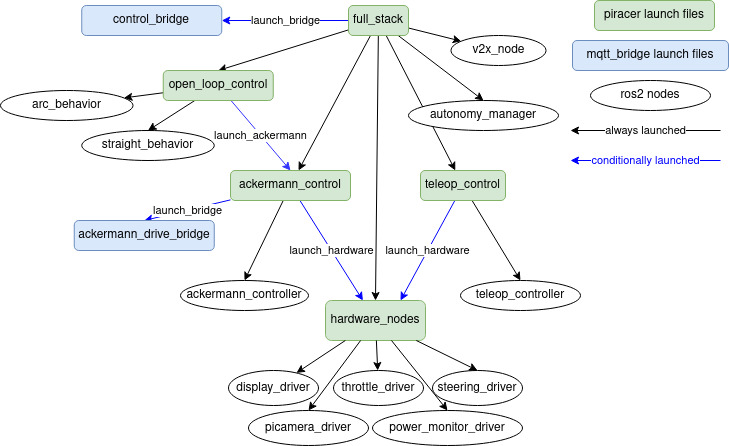
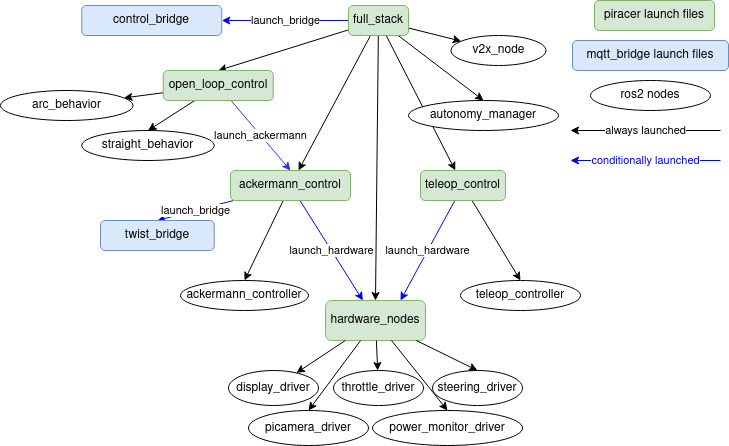
Replaced ackermann_drive references with twist references
ackermann_drive bridge still had residual references, replaced
with Twist to reflect package changes.

launch_hierarchy.jpg
README.md
* replaced ackermann_drive references with twist

Changed region(s): [[0.0905, 0.4372, 0.332, 0.583]]

diff --git a/README.md b/README.md
@@ -27,7 +27,7 @@ anything, but for practical purposes it should never need to be launched by itse
 ### Launch file options
 1. `full_stack.launch.py`: Launches all possible control modes at once, as well as the autonomy_manager.
 2. `open_loop_control.py`: Launches the open loop controllers and the ackermann_controller node.
-3. `ackermann_control.launch.py`: For use with the ackermann_drive mode of the mqtt_bridge package.
+3. `ackermann_control.launch.py`: For use with the twist mode of the mqtt_bridge package.
 4. `teleop_control.launch.py`: For use with a gamepad / controller.
 
 ### Command-line arguments
@@ -63,8 +63,8 @@ The following are the currently implemented control modes. Switching between the
 node, using ROS2 services. The commands from the `command` bridge to enable these modes are strings and are 
 case-insensitive.
 
-1. `direct`: `ackermann_drive` messages containing steering_angle and throttle commands are sent from the 
-   `ackermann_drive` bridge and parsed by the `ackermann_controller` node.
+1. `direct`: `twist` messages containing steering_angle and throttle commands are sent from the 
+   `twist` bridge and parsed by the `ackermann_controller` node.
    * **Default**: this is the state every car is in on launch
    * Enabled via sending the string `direct` through the command bridge
 2. `auto`: Does nothing as currently implemented.
@@ -78,8 +78,8 @@ The following are bridges from the `mqtt_bridge` package that must be launched a
 the same `agent_name`) for cars to function  properly for `direct` mode and mode switching. They are automatically
 launched as needed unless `launch_bridge` is set to `False`.
 
-1. `ackermann_drive`: sends `ackermann_drive` messages to the `ackermann_controller` node while the car is in `direct` mode
-   * As the `autonomy_mode` node relies on a service that lives in the `ackermann_drive` bridge to enable / disable 
-     `direct` mode, it hang until the `ackermann_drive` bridge is launched, outputting to the logger that it is
+1. `twist`: sends `twist` messages to the `ackermann_controller` node while the car is in `direct` mode
+   * As the `autonomy_mode` node relies on a service that lives in the `twist` bridge to enable / disable 
+     `direct` mode, it hangs until the `twist` bridge is launched, outputting to the logger that it is
      waiting for the service to be available.
 1. `command`: allows for mode switching, as previously described in the [Control Modes](#control-modes) section.
